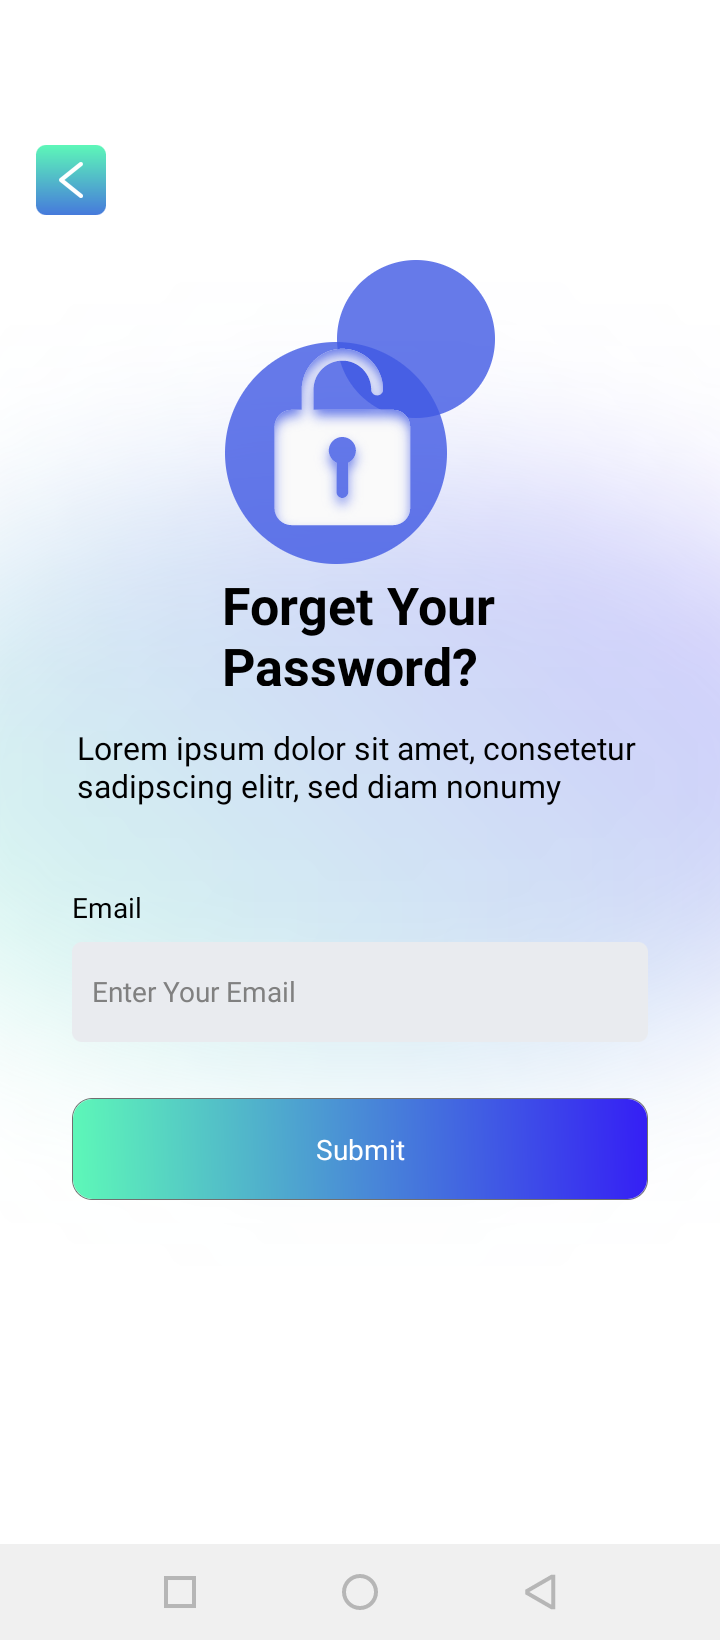
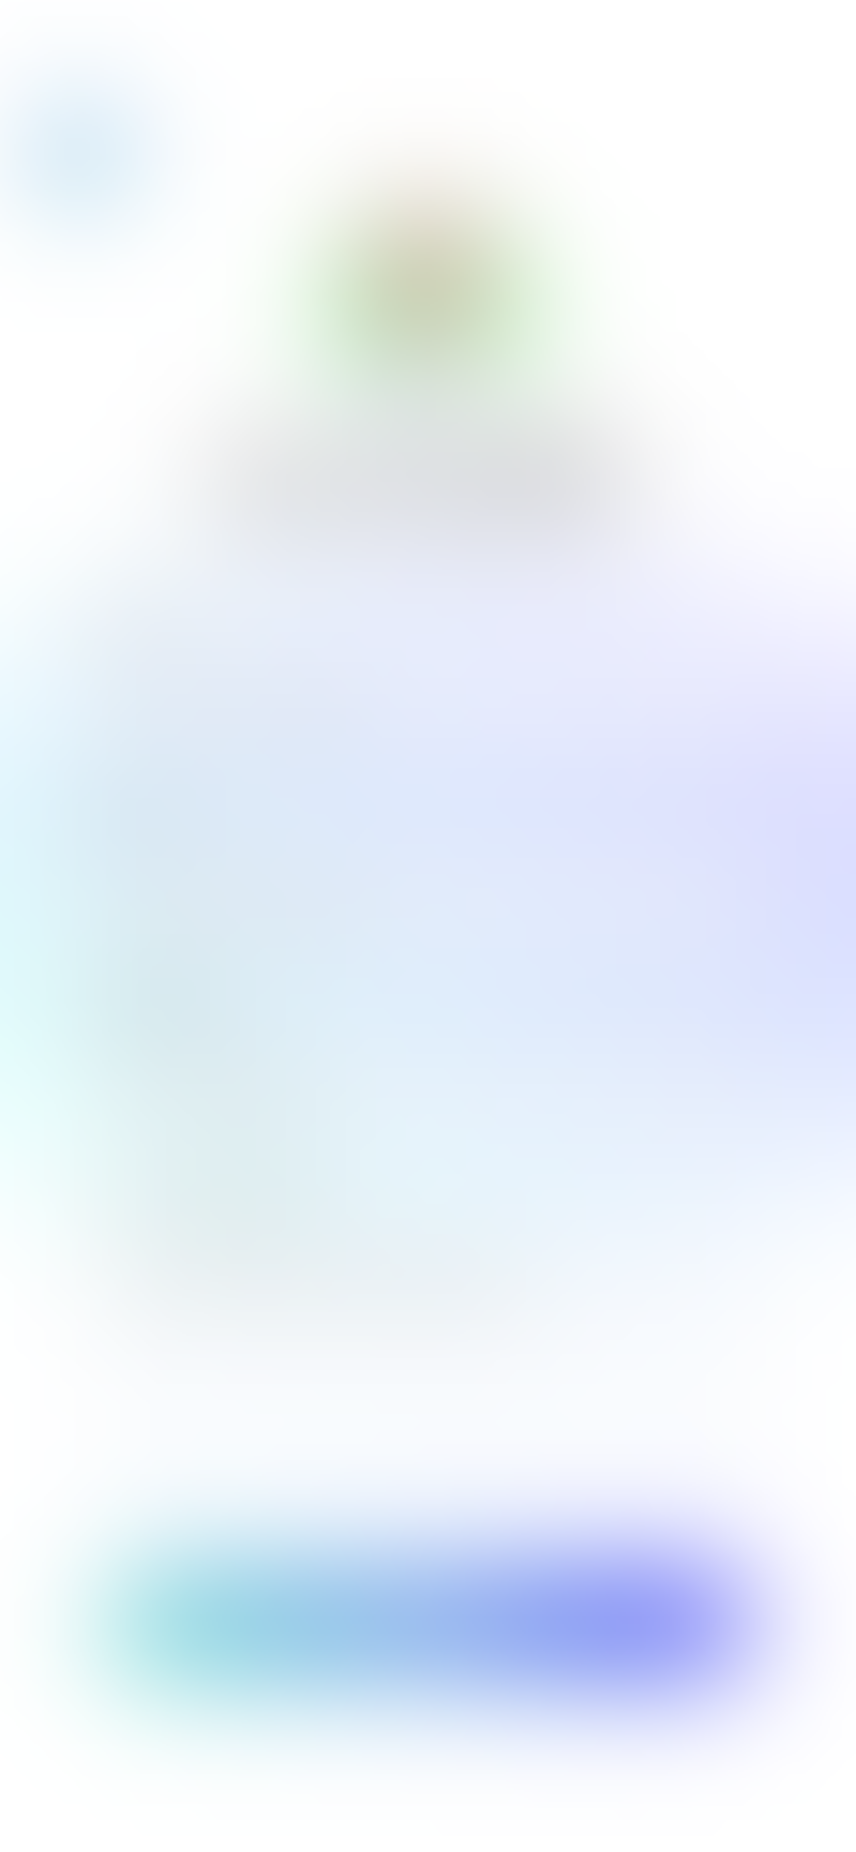
initMoreUpdate

diff --git a/src/screens/auth/forgetConfirm/index.js b/src/screens/auth/forgetConfirm/index.js
@@ -16,18 +16,14 @@ import {SafeAreaView} from 'react-native-safe-area-context';
 
 const ForgetConfirm = props => {
   return (
-    <SafeAreaView style={styles.imageContainer}>
+    <ImageBackground
+      style={styles.imageContainer}
+      source={Images.Pictures.forgetBlur}>
       <ScrollView
         showsVerticalScrollIndicator={false}
         contentContainerStyle={{flexGrow: 1}}>
         <StatusBar backgroundColor={'transparent'} translucent={true} />
-        <View style={styles.screenHeader}>
-          <Header
-            onPress={() => {
-              props.navigation.goBack();
-            }}
-          />
-        </View>
+
         <View style={styles.screenBody}>
           <View style={styles.profileImageContainer}>
             <View style={styles.profileImage}>
@@ -78,7 +74,7 @@ const ForgetConfirm = props => {
           </View>
         </View>
       </ScrollView>
-    </SafeAreaView>
+    </ImageBackground>
   );
 };
 export default ForgetConfirm;
@@ -114,6 +110,8 @@ const styles = StyleSheet.create({
     width: '80%',
     height: '100%',
     alignSelf: 'center',
+    alignItems: 'center',
+    justifyContent: 'center',
   },
   profileImageContainer: {
     width: 135,

diff --git a/src/screens/auth/login/index.js b/src/screens/auth/login/index.js
@@ -138,7 +138,7 @@ const Login = props => {
               <Text style={styles.footerText1}>Create an account</Text>
               <TouchableOpacity
                 activeOpacity={0.7}
-                onPress={() => props.navigation.navigate('login')}>
+                onPress={() => props.navigation.navigate('signUp')}>
                 <Text style={styles.footerText2}> Sign Up</Text>
               </TouchableOpacity>
             </View>

diff --git a/src/screens/auth/signup/index.js b/src/screens/auth/signup/index.js
@@ -59,7 +59,7 @@ const SignUp = props => {
                 style={{width: '100%', height: '100%'}}
               />
             </View>
-            <TouchableOpacity activeOpacity={0.7} style={styles.uploadButton}>
+            <TouchableOpacity activeOpacity={0.6} style={styles.uploadButton}>
               <Icon name="plus" type="Feather" style={{fontSize: 18}} />
             </TouchableOpacity>
           </View>

diff --git a/src/constants/images/index.js b/src/constants/images/index.js
@@ -4,6 +4,7 @@ const Images = {
     appBg: require('../../assets/images/Bg.png'),
     profile: require('../../assets/images/profile.png'),
     help: require('../../assets/images/help.png'),
+    forgetBlur: require('../../assets/images/forgetBlur.png'),
   },
   Logos: {
     connect: require('../../assets/images/connect.png'),
